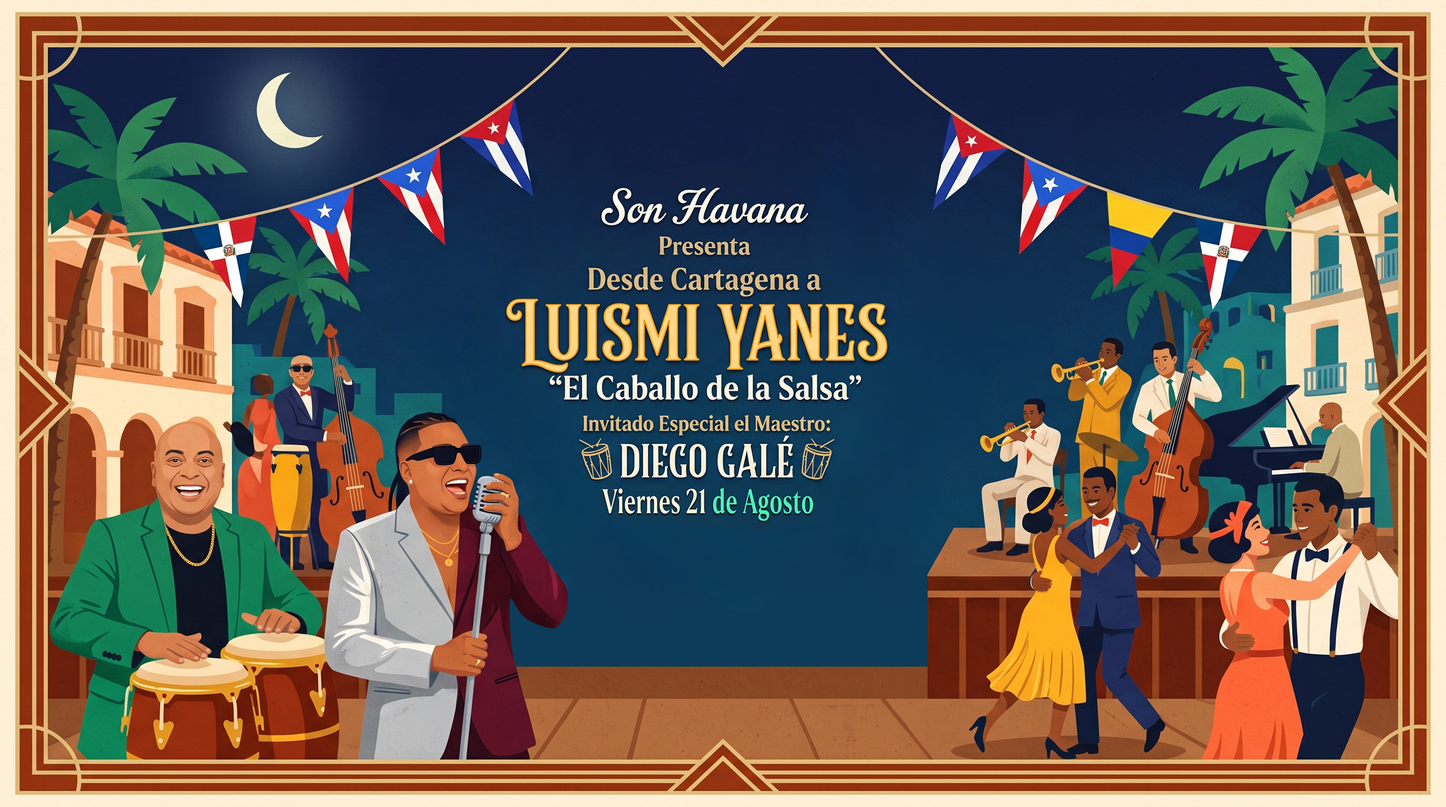
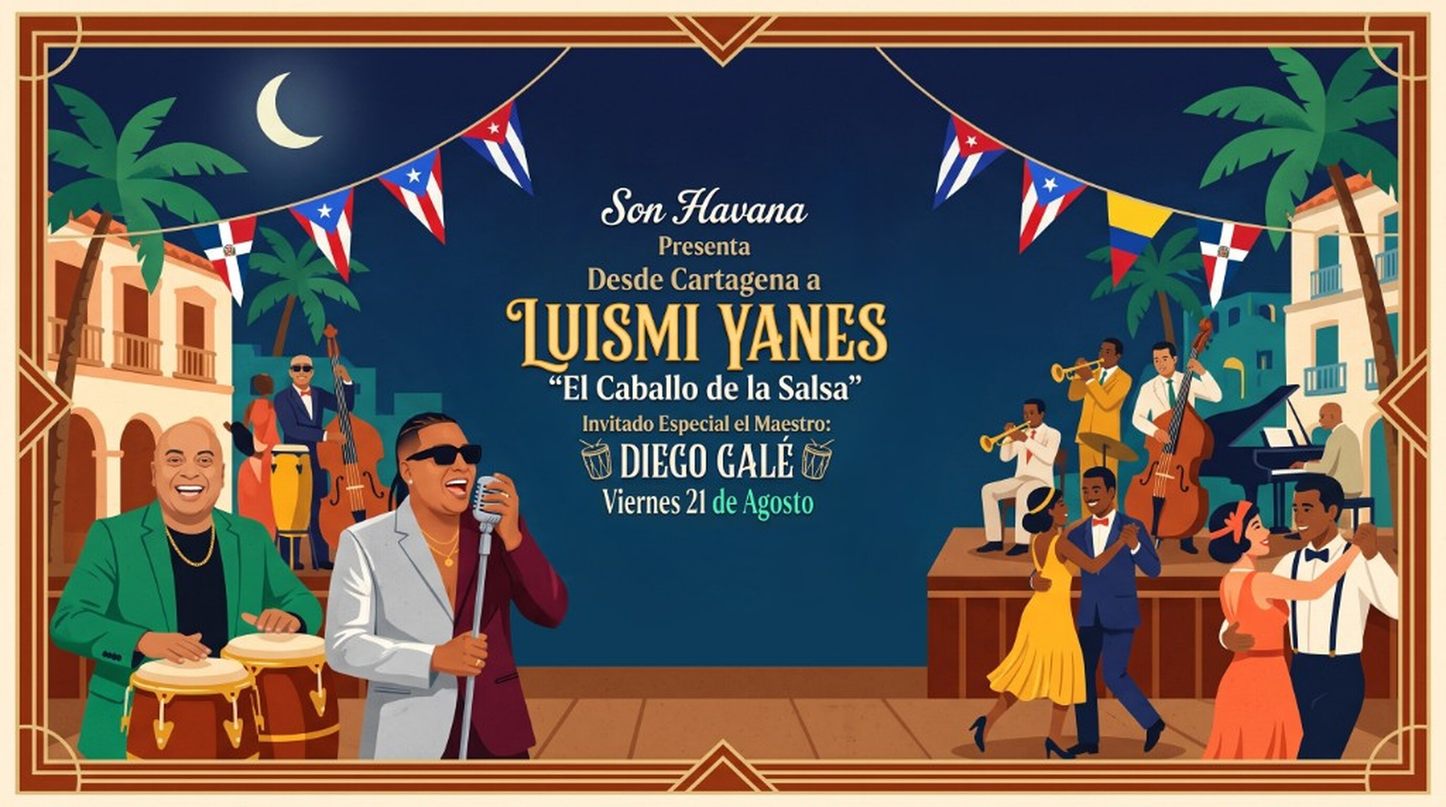
fix(hero): nuevos carteles Luismi Yanes y Tromboricua
Desktop 2752×1536 + tablet 1536×2048 + mobile 1080×2340.
Letrero inferior con highlights y aporte cultural $25.000 COP.

diff --git a/src/components/Hero.tsx b/src/components/Hero.tsx
@@ -31,6 +31,10 @@ const POSTER_A11Y: Record<string, { alt: string; sr: string }> = {
     alt: "Cartel Luismi Yanes «El Caballo de la Salsa», desde Cartagena, viernes 21 de agosto en Son Havana, con el maestro Diego Galé como invitado especial",
     sr: "Luismi Yanes, El Caballo de la Salsa, desde Cartagena. Viernes 21 de agosto en Son Havana, con el maestro Diego Galé como invitado especial.",
   },
+  "tromboricua-22ago": {
+    alt: "Cartel Tromboricua — Trombonera Seria, la salsa es con música en vivo, sábado 22 de agosto en Son Havana",
+    sr: "Tromboricua — Trombonera Seria. La salsa es con música en vivo. Sábado 22 de agosto en Son Havana.",
+  },
   "son-kmaron": {
     alt: "Cartel Son K'maron — Salsa Clásica con Estilo, viernes 14 de agosto, con Juan Hernández «A prueba de Fuego» en los controles",
     sr: "Son K'maron — Salsa Clásica con Estilo. Viernes 14 de agosto, con Juan Hernández «A prueba de Fuego» como invitado especial en los controles.",
@@ -56,15 +60,34 @@ const SLIDES_TEMPLATE: Omit<Slide, "bgUrl">[] = [
     title: "",
     subtitle: "LUISMI YANES",
     description: "",
-    // Pendientes las versiones tablet y mobile del cartel.
     localPath: "/images/hero/LuismiYanes.webp",
+    localPathTablet: "/images/hero/LuismiYanes-tablet.webp",
+    localPathMobile: "/images/hero/LuismiYanes-mobile.webp",
     demoUrl: "https://images.unsplash.com/photo-1524117074187-3575b7f39a91?auto=format&fit=crop&q=80&w=1600",
-    // Sin aporte ni highlights: el rótulo caía encima de "Diego Galé" y la fecha del cartel.
-    highlights: [],
+    price: "$25.000 COP",
+    highlights: ["Música en vivo", "Pista de baile"],
     ctaText: "Reserva Aquí",
     secondaryCtaText: "Quiero saber más",
     waText:
       "¡Hola! Quiero saber más sobre la presentación de Luismi Yanes con el maestro Diego Galé este viernes 21 de agosto en Son Havana.",
+    posterLayout: true,
+  },
+  {
+    id: "tromboricua-22ago",
+    badge: "",
+    title: "",
+    subtitle: "TROMBORICUA",
+    description: "",
+    localPath: "/images/hero/Tromboricua.webp",
+    localPathTablet: "/images/hero/Tromboricua-tablet.webp",
+    localPathMobile: "/images/hero/Tromboricua-mobile.webp",
+    demoUrl: "https://images.unsplash.com/photo-1501386761578-eac5c94b800a?auto=format&fit=crop&q=80&w=1600",
+    price: "$25.000 COP",
+    highlights: ["El mejor ambiente de la ciudad", "Salsa en vivo"],
+    ctaText: "Realiza tu reserva",
+    secondaryCtaText: "Más Información",
+    waText:
+      "¡Hola! Quiero saber más sobre la presentación de Tromboricua este sábado 22 de agosto en Son Havana.",
     posterLayout: true,
   },
   {
@@ -242,6 +265,15 @@ export default function Hero({ onBookingOpen }: HeroProps) {
   const currentSlide = slides[currentIndex];
   const nextSlide = slides[(currentIndex + 1) % slides.length];
   const slideCopy = SLIDES_TEMPLATE[currentIndex];
+
+  // Cartel 16:9 sin arte vertical propio: en retrato se muestra completo en la
+  // franja superior (object-contain) en vez de recortado por object-cover.
+  const containPoster =
+    viewportArt !== "desktop" &&
+    !!currentSlide.posterLayout &&
+    !slideCopy.localPathMobile &&
+    !slideCopy.localPathTablet &&
+    currentSlide.bgUrl !== currentSlide.demoUrl;
 
   const handleWhatsApp = (text: string) => {
     const encodedText = encodeURIComponent(text);

diff --git a/public/images/hero/README.md b/public/images/hero/README.md
@@ -16,8 +16,8 @@ Zona segura (el resto lo tapan header, CTAs y el reproductor):
 Coloca aquí las imágenes:
 - son-kmaron.webp
 - son-kmaron-mobile.webp (móvil ≤767px)
-- Tromboricua.webp
-- Tromboricua-mobile.webp (móvil ≤767px)
+- LuismiYanes.webp / LuismiYanes-tablet.webp / LuismiYanes-mobile.webp (slide 1, vie 21 ago)
+- Tromboricua.webp / Tromboricua-tablet.webp / Tromboricua-mobile.webp (slide 2, sáb 22 ago)
 - LaCentral.webp
 - LaCentral-mobile.webp (móvil ≤767px)
 - LaDimension.webp
